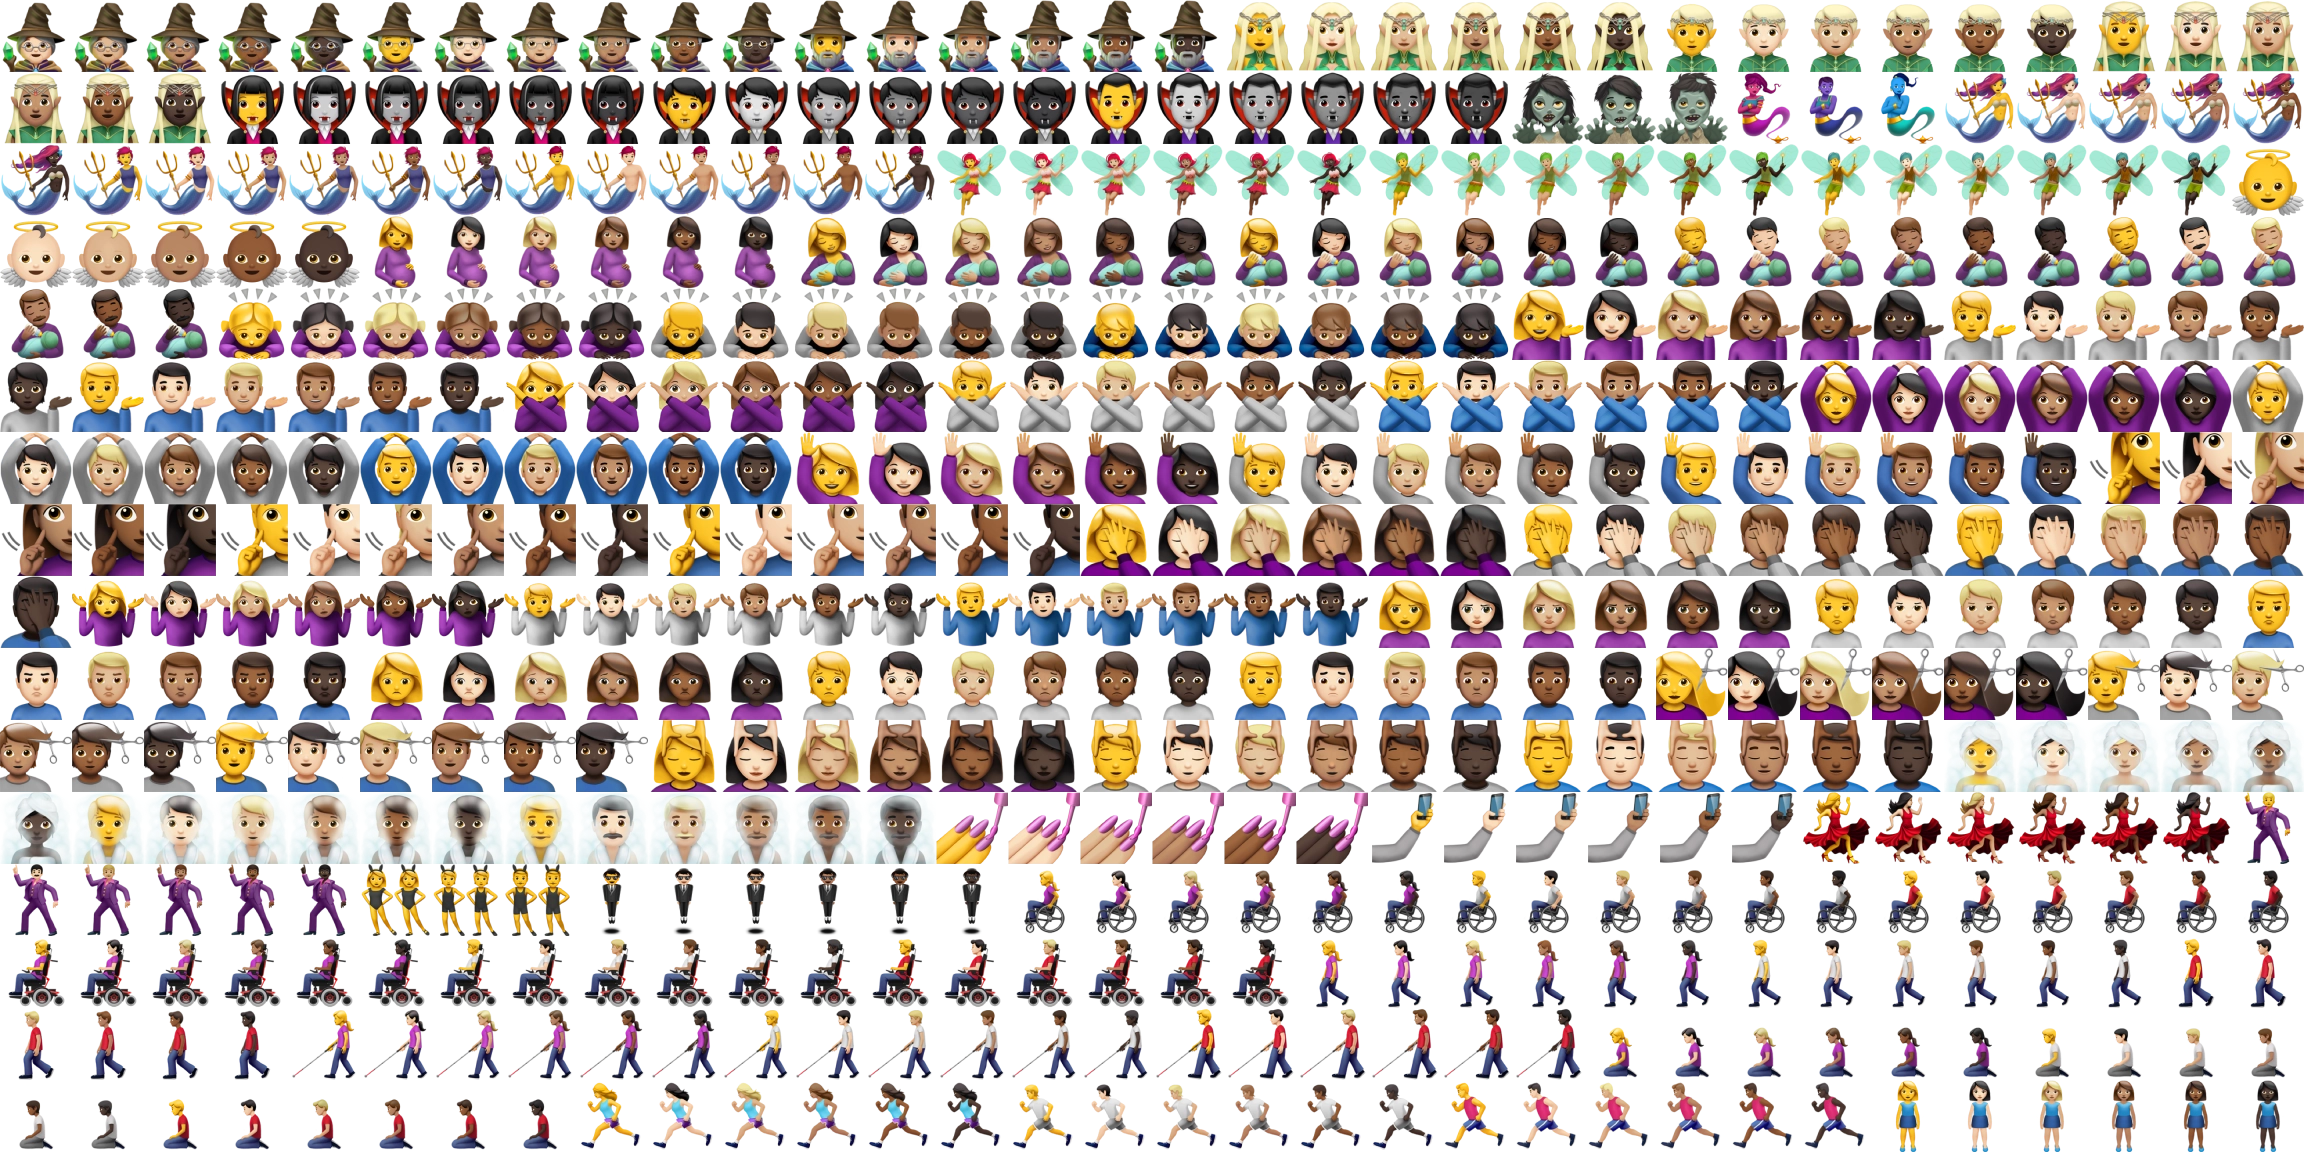
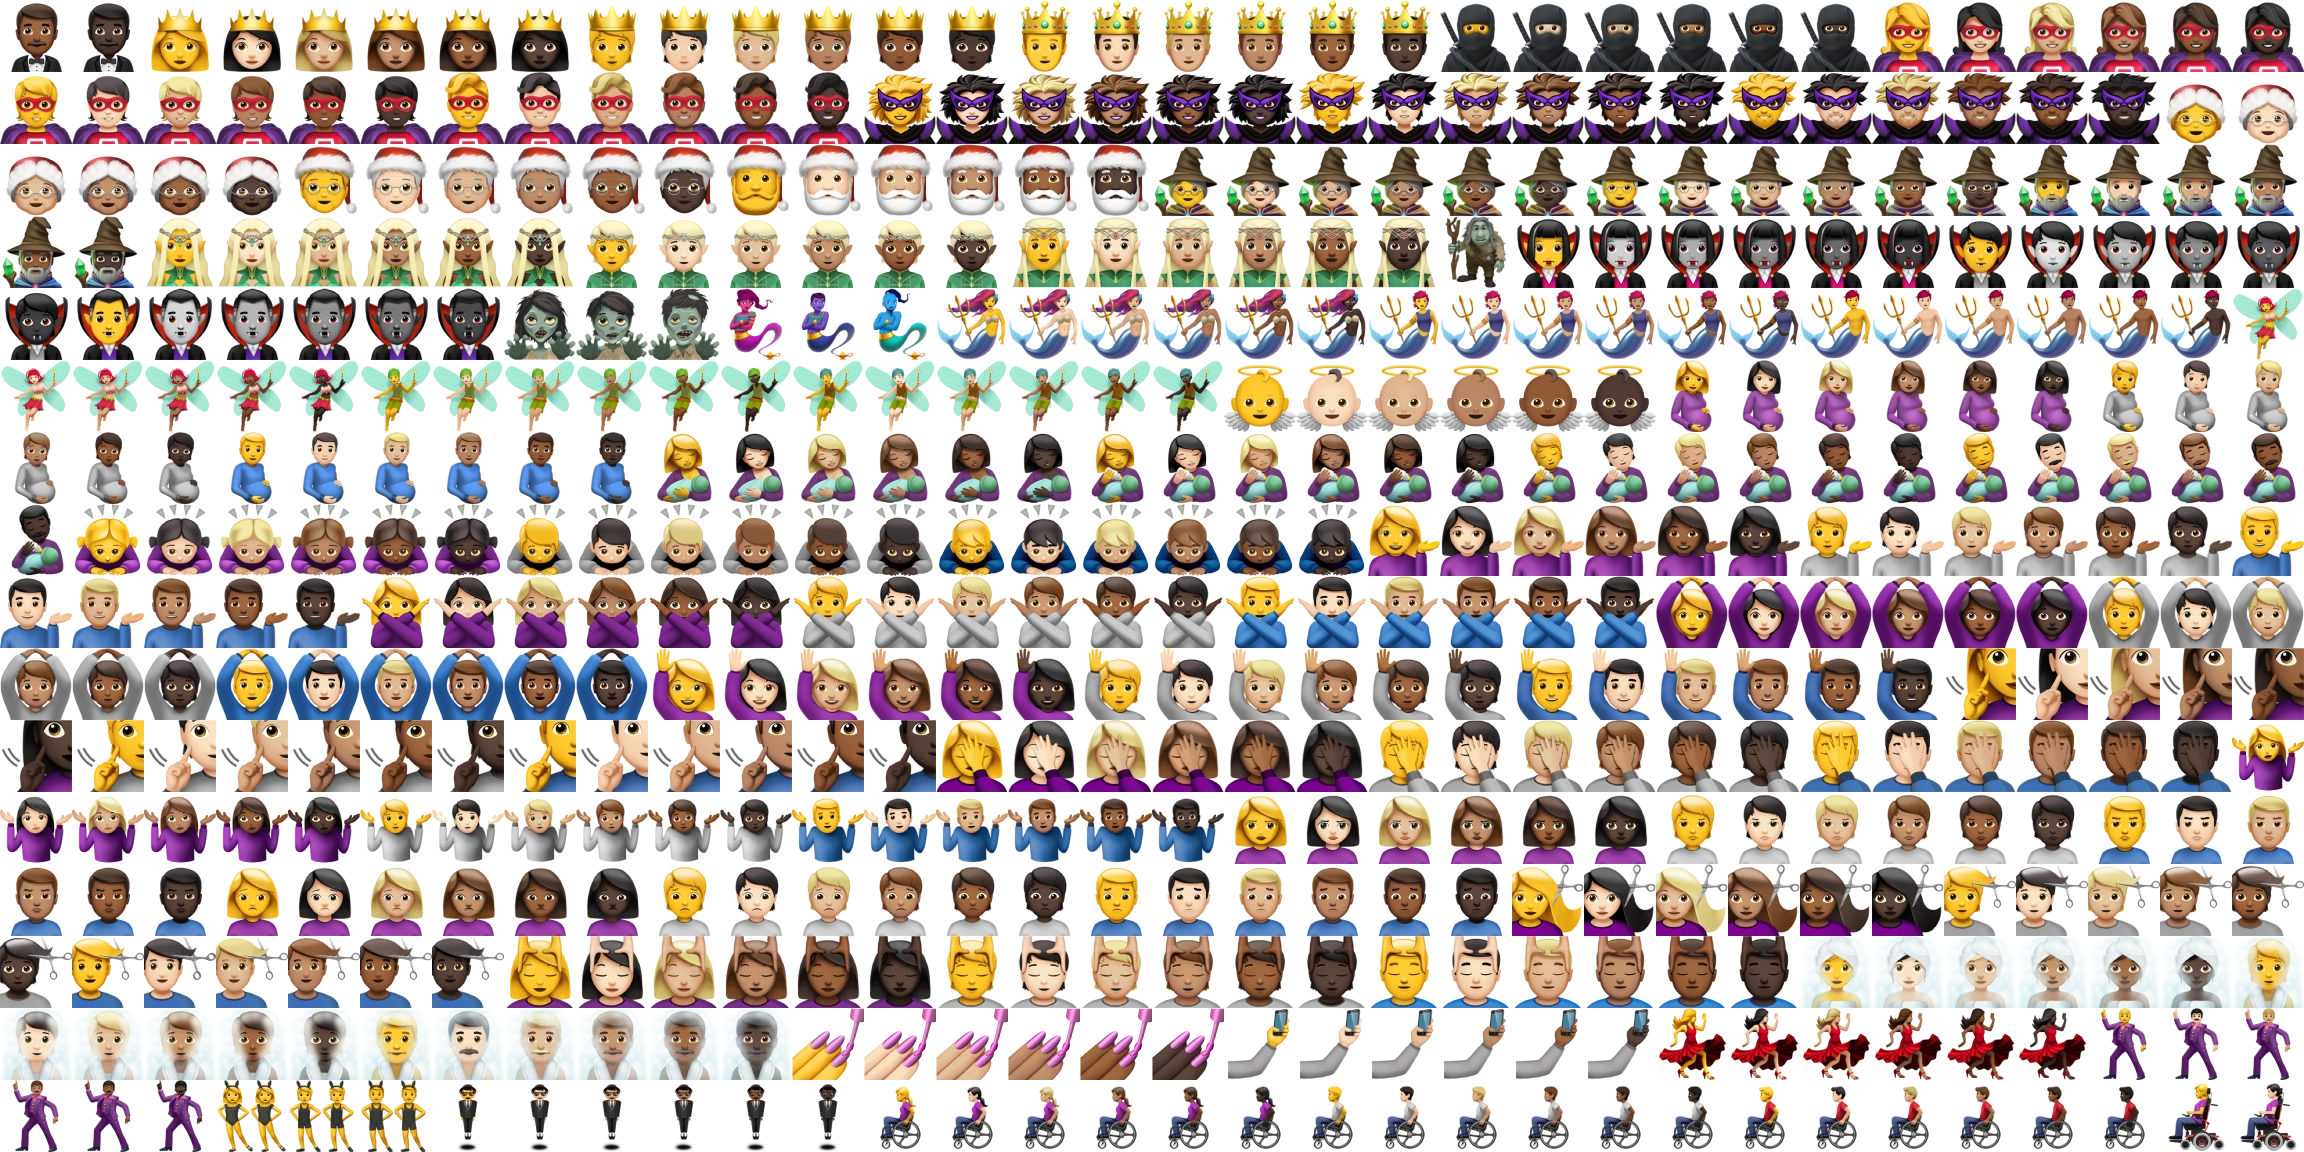
Update emoji to Unicode 14.

diff --git a/Telegram/SourceFiles/chat_helpers/emoji_sets_manager.cpp b/Telegram/SourceFiles/chat_helpers/emoji_sets_manager.cpp
@@ -40,9 +40,9 @@ inline auto PreviewPath(int i) {
 
 const auto kSets = {
 	Set{ { 0,    0,         0, "Mac" },       PreviewPath(0) },
-	Set{ { 1, 1112, 7'914'459, "Android" },   PreviewPath(1) },
-	Set{ { 2, 1113, 5'287'724, "Twemoji" },   PreviewPath(2) },
-	Set{ { 3, 1114, 6'687'347, "JoyPixels" }, PreviewPath(3) },
+	Set{ { 1, 1392, 8'184'590, "Android" },   PreviewPath(1) },
+	Set{ { 2, 1393, 5'413'219, "Twemoji" },   PreviewPath(2) },
+	Set{ { 3, 1394, 6'967'218, "JoyPixels" }, PreviewPath(3) },
 };
 
 using Loading = MTP::DedicatedLoader::Progress;
